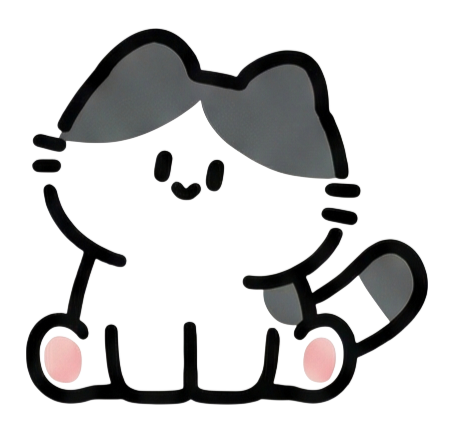
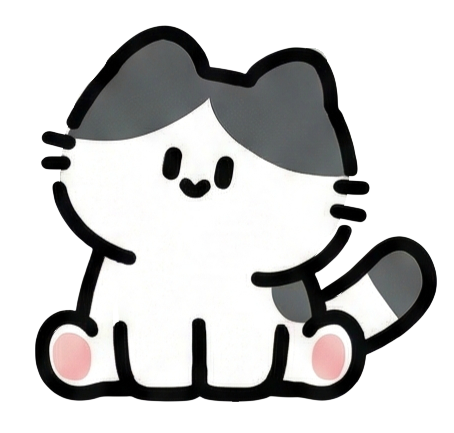
新增貓咪圖

Changed region(s): [[0.0308, 0.06, 0.9868, 0.9607], [0.3392, 0.2702, 0.4009, 0.3002], [0.3084, 0.3002, 0.3392, 0.3303]]

diff --git a/src/app/cats/page.tsx b/src/app/cats/page.tsx
@@ -170,12 +170,6 @@ export default function CatsPage() {
     setShowAddForm(true)
   }
 
-  const handleCancelEdit = () => {
-    console.log('Cancel edit clicked') // Debug log
-    setEditingCat(null)
-    setFormData({ name: '', birthday: '', weight: '', avatar_id: 'cat-1' })
-    setShowAddForm(false)
-  }
 
   const handleDelete = async (catId: string) => {
     if (!confirm('確定要刪除這隻貓咪嗎？這將會一併刪除相關的計算記錄。')) {
@@ -264,7 +258,7 @@ export default function CatsPage() {
                   {/* Avatar Selection */}
                   <div className="space-y-3">
                     <Label>選擇貓咪頭像</Label>
-                    <div className="flex flex-wrap gap-3">
+                    <div className="grid grid-cols-5 gap-3">
                       {CAT_AVATARS.map((avatar) => (
                         <button
                           key={avatar.id}
@@ -275,7 +269,7 @@ export default function CatsPage() {
                             console.log(`Avatar ${avatar.id} clicked`)
                             setFormData({ ...formData, avatar_id: avatar.id })
                           }}
-                          className={`p-2 rounded-xl border-2 transition-all duration-300 hover:scale-110 touch-manipulation relative ${
+                          className={`p-2 rounded-xl border-2 transition-all duration-300 hover:scale-110 touch-manipulation relative aspect-square ${
                             formData.avatar_id === avatar.id 
                               ? 'border-primary bg-primary/10 shadow-lg' 
                               : 'border-primary/30 hover:border-primary/60'
@@ -285,8 +279,6 @@ export default function CatsPage() {
                             zIndex: 100,
                             pointerEvents: 'auto',
                             touchAction: 'manipulation',
-                            minHeight: '60px',
-                            minWidth: '60px',
                             display: 'flex',
                             alignItems: 'center',
                             justifyContent: 'center'

diff --git a/src/app/records/page.tsx b/src/app/records/page.tsx
@@ -7,6 +7,7 @@ import { Card, CardContent, CardDescription, CardHeader, CardTitle } from '@/com
 import { useRouter } from 'next/navigation'
 import Link from 'next/link'
 import CatAvatar from '@/components/CatAvatar'
+import Image from 'next/image'
 import type { User } from '@supabase/supabase-js'
 
 interface FoodRecord {
@@ -183,10 +184,17 @@ export default function RecordsPage() {
               <CardContent className="py-12">
                 <div className="text-center">
                   <div className="relative mb-8">
-                    <div className="w-16 h-16 glass rounded-full flex items-center justify-center mx-auto animate-float border-primary/30">
-                      📊
+                    <div className="w-20 h-20 glass rounded-full flex items-center justify-center mx-auto animate-float border-primary/30 p-4">
+                      <Image
+                        src="/cat-food-icon.png"
+                        alt="貓糧圖標"
+                        width={64}
+                        height={64}
+                        className="w-full h-full object-contain"
+                        unoptimized={true}
+                      />
                     </div>
-                    <div className="absolute top-0 left-1/2 transform -translate-x-1/2 -translate-y-1 w-20 h-20 bg-gradient-to-r from-primary/20 to-accent/20 rounded-full blur-2xl"></div>
+                    <div className="absolute top-0 left-1/2 transform -translate-x-1/2 -translate-y-1 w-24 h-24 bg-gradient-to-r from-primary/20 to-accent/20 rounded-full blur-2xl"></div>
                   </div>
                   <h3 className="text-lg font-medium text-foreground mb-2">
                     還沒有計算記錄

diff --git a/src/app/dashboard/page.tsx b/src/app/dashboard/page.tsx
@@ -9,6 +9,7 @@ import { Input } from '@/components/ui/input'
 import { Label } from '@/components/ui/label'
 import { useRouter, useSearchParams } from 'next/navigation'
 import Link from 'next/link'
+import Image from 'next/image'
 import BottomNav from '@/components/BottomNav'
 import CatAvatar from '@/components/CatAvatar'
 import { Trash2, Calculator, Edit2 } from 'lucide-react'
@@ -966,8 +967,15 @@ function DashboardContent() {
         {records.length === 0 ? (
           <div className="text-center py-12 animate-scale-in">
             <div className="relative mb-8">
-              <div className="w-20 h-20 glass rounded-3xl flex items-center justify-center mx-auto animate-float border-primary/30">
-                <span className="text-2xl">📦</span>
+              <div className="w-20 h-20 glass rounded-3xl flex items-center justify-center mx-auto animate-float border-primary/30 p-4">
+                <Image
+                  src="/cat-food-icon.png"
+                  alt="貓糧圖標"
+                  width={64}
+                  height={64}
+                  className="w-full h-full object-contain"
+                  unoptimized={true}
+                />
               </div>
               <div className="absolute top-0 left-1/2 transform -translate-x-1/2 -translate-y-1 w-24 h-24 bg-gradient-to-r from-primary/20 to-accent/20 rounded-full blur-2xl"></div>
             </div>

diff --git a/src/components/CatAvatar.tsx b/src/components/CatAvatar.tsx
@@ -20,7 +20,9 @@ export const CAT_AVATARS = [
   { id: 'cat-13', name: '三花貓', image: '/cats/cat-12.png' },
   { id: 'cat-14', name: '黑白貓', image: '/cats/cat-13.png' },
   { id: 'cat-15', name: '黑色貓咪', image: '/cats/cat-14.png' },
-  { id: 'cat-16', name: '玉米貓', image: '/cats/cat-15.png' }
+  { id: 'cat-16', name: '玉米貓', image: '/cats/cat-15.png' },
+  { id: 'cat-17', name: '新貓咪', image: '/cats/cat-16.png' },
+  { id: 'cat-18', name: '特殊貓咪', image: '/cats/cat-17.png' }
 ]
 
 interface CatAvatarProps {

diff --git a/DEPLOYMENT.md b/DEPLOYMENT.md
@@ -21,7 +21,7 @@ public/
 │   ├── cat-0.png     # 白色小貓
 │   ├── cat-1.png     # 暹羅貓
 │   ├── ...
-│   └── cat-15.png    # 共16個貓咪頭像
+│   └── cat-17.png    # 共18個貓咪頭像
 ├── icons/            # PWA 圖標 (見 PWA-ICONS-GUIDE.md)
 │   ├── icon-72x72.png
 │   ├── icon-96x96.png
@@ -382,9 +382,9 @@ npm run type-check
 
 ### 圖片載入問題
 
-確認 `public/cats/` 目錄中有所有 16 個貓咪頭像：
+確認 `public/cats/` 目錄中有所有 18 個貓咪頭像：
 
-- cat-0.png 到 cat-15.png
+- cat-0.png 到 cat-17.png
 - 檔案大小合理（建議 < 100KB）
 
 ## 🚀 生產環境最佳化
